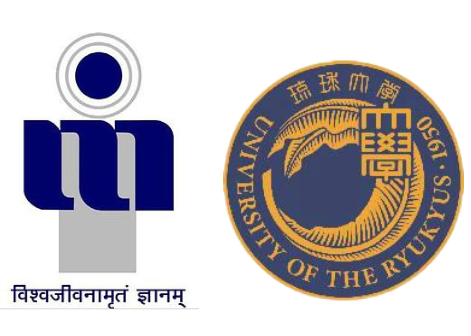
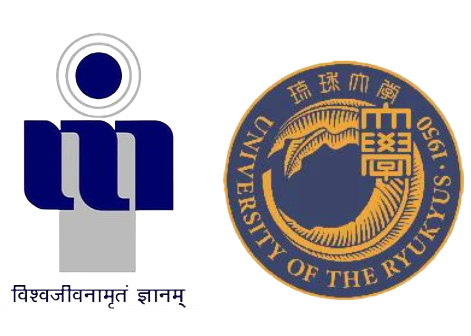
meet-fixing

diff --git a/about.html b/about.html
@@ -110,7 +110,7 @@
               the past one decade in these research areas. Hence, the
               state-of-the-art 2nd International Conference on Computer Vision
               and Machine Intelligence (CVMI) is planned to be organized
-              during 13-14 October 2023 for the researchers to disseminate
+              during 10-11 December 2023 for the researchers to disseminate
               their research outcomes at Atal Bihari Vajpayee Indian Institute
               of Information Technology and Management (ABV-IIITM), Gwalior,
               India. The first version of CVMI 2022 was organized by Computer
@@ -157,7 +157,7 @@
       <div class="row">
         <div class="col-md-4">
           <div class="img-box">
-            <img src="images/iiitm.jpg" alt="" />
+            <img src="images/iiitm.png" alt="" />
           </div>
         </div>
         <div class="col-md-8">
@@ -212,19 +212,13 @@
               southernmost prefecture of Japan, and consists of seven
               faculties and eight graduate schools. Okinawa, an island
               prefecture located in the sub-tropics, has a unique ecosystem
-              and distinct traditional culture. It has a long history of
-              establishing relationships with other countries, and its
-              thriving overseas trade in the period between the 14th and 16th
-              centuries is one such example. Such exchanges have created a
+              and distinct traditional culture. Such exchanges have created a
               diverse and multicultural society in Okinawa. In order to
               sustain and further develop such unique features of Okinawa, the
               university promotes research in the fields of island and marine
               environment studies, health and longevity studies, and
               Ryukyuan/Okinawan cultural studies, all of which take advantage
-              of Okinawa's regional characteristics. The university also aims
-              to nurture well-rounded individuals imbued with knowledge and
-              capabilities for social contribution on a global and regional
-              scale.
+              of Okinawa's regional characteristics. 
             </p>
             <p>
               As a university with local and global features, our university
@@ -311,7 +305,7 @@
           <div class="info_contact">
             <h5>CVMI</h5>
             <div>
-              <p>
+              <p class="info-p">
                 CVMI is a premier conference focused on computer vision and
                 machine intelligence. The conference will feature world
                 renowned speakers, technical sessions and research conclave.

diff --git a/index.html b/index.html
@@ -171,7 +171,7 @@
               <p>
                 The state-of-the-art 2nd International Conference on Computer
                 Vision and Machine Intelligence (CVMI) is planned to be
-                organized during 10-11 October 2023 for the researchers to
+                organized during 10-11 December 2023 for the researchers to
                 disseminate their research outcomes at Atal Bihari Vajpayee
                 Indian Institute of Information Technology and Management
                 (ABV-IIITM), Gwalior, India.
@@ -650,6 +650,13 @@
                       <h5>Other Topics of Machine Intelligence</h5>
                     </div>
                   </div>
+                  <div class="t-link-box collapsed">
+                    <hr />
+                    <div class="t-name">
+                      <h5>Topics of interests for the conference include, but are not limited</h5>
+                    </div>
+                  </div>
+                  
                 </div>
               </div>
             </div>
@@ -713,7 +720,7 @@
             <div class="info_contact">
               <h5>CVMI</h5>
               <div>
-                <p>
+                <p class="info-p">
                   CVMI is a premier conference focused on computer vision and
                   machine intelligence. The conference will feature world
                   renowned speakers, technical sessions and research conclave.

diff --git a/css/style.css b/css/style.css
@@ -7,10 +7,18 @@ body {
 .layout_padding {
   padding-top: 90px;
   padding-bottom: 90px;
+  background: #e2f4f4;
 }
 
+p {
+  text-align: justify;
+}
+.info-p{
+  text-align: left;
+}
 .layout_padding2 {
   padding: 45px 0;
+  background: #e2f4f4;
 }
 
 .layout_padding2-top {
@@ -84,7 +92,7 @@ body {
   display: contents;
 }
 
-.sub_page .hero_area .header_section .container-fluid{
+.sub_page .hero_area .header_section .container-fluid {
   background-color: #7292d1;
 }
 
@@ -145,6 +153,7 @@ body {
 
 .header_section .nav_container {
   margin: 0 auto;
+  background: #92d1;
 }
 
 .header_section .user_option {
@@ -706,10 +715,10 @@ a:focus {
   padding-top: 35px;
 }
 
-.tocs .tab_container .t-link-box{
+.tocs .tab_container .t-link-box {
   margin: 10px 0;
 }
-.tocs .tab_container .t-link-box h5{
+.tocs .tab_container .t-link-box h5 {
   font-size: 1rem;
 }
 
@@ -777,8 +786,6 @@ a:focus {
   flex-wrap: wrap;
   margin: 0 -10px;
 }
-
-
 
 .brand_section .brand_container .box {
   position: relative;

diff --git a/cfp.html b/cfp.html
@@ -408,6 +408,12 @@
                     <h5>Other Topics of Machine Intelligence</h5>
                   </div>
                 </div>
+                <div class="t-link-box collapsed">
+                  <hr />
+                  <div class="t-name">
+                    <h5>Topics of interests for the conference include, but are not limited</h5>
+                  </div>
+                </div>
               </div>
             </div>
           </div>
@@ -526,7 +532,7 @@
           <div class="info_contact">
             <h5>CVMI</h5>
             <div>
-              <p>
+              <p class="info-p">
                 CVMI is a premier conference focused on computer vision and
                 machine intelligence. The conference will feature world
                 renowned speakers, technical sessions and research conclave.

diff --git a/committee.html b/committee.html
@@ -137,7 +137,7 @@
             <div class="info_contact">
               <h5>CVMI</h5>
               <div>
-                <p>
+                <p class="info-p">
                   CVMI is a premier conference focused on computer vision and
                   machine intelligence. The conference will feature world
                   renowned speakers, technical sessions and research conclave.

diff --git a/phdcolloquium.html b/phdcolloquium.html
@@ -137,7 +137,7 @@
             <div class="info_contact">
               <h5>CVMI</h5>
               <div>
-                <p>
+                <p class="info-p">
                   CVMI is a premier conference focused on computer vision and
                   machine intelligence. The conference will feature world
                   renowned speakers, technical sessions and research conclave.

diff --git a/registration.html b/registration.html
@@ -137,7 +137,7 @@
             <div class="info_contact">
               <h5>CVMI</h5>
               <div>
-                <p>
+                <p class="info-p">
                   CVMI is a premier conference focused on computer vision and
                   machine intelligence. The conference will feature world
                   renowned speakers, technical sessions and research conclave.
